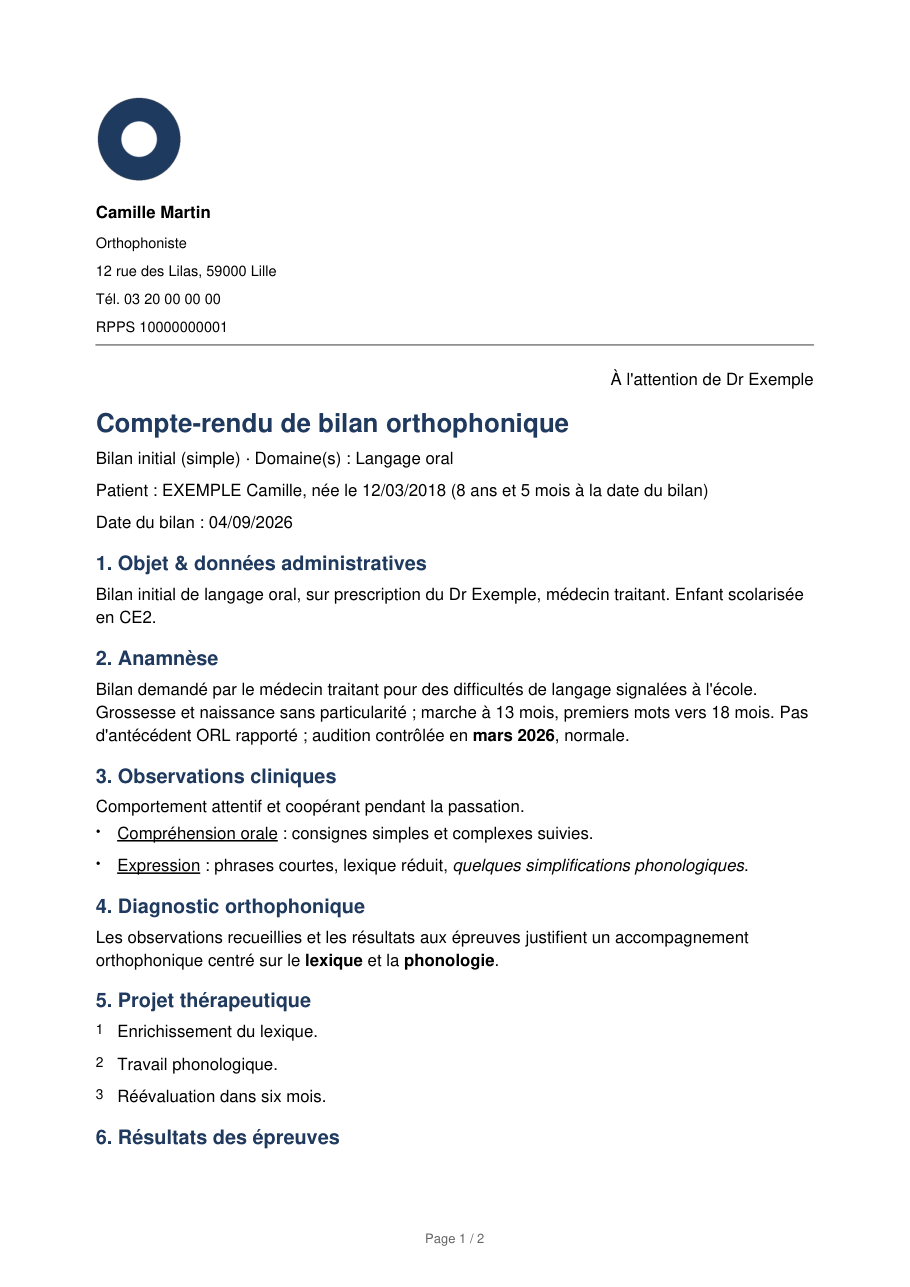
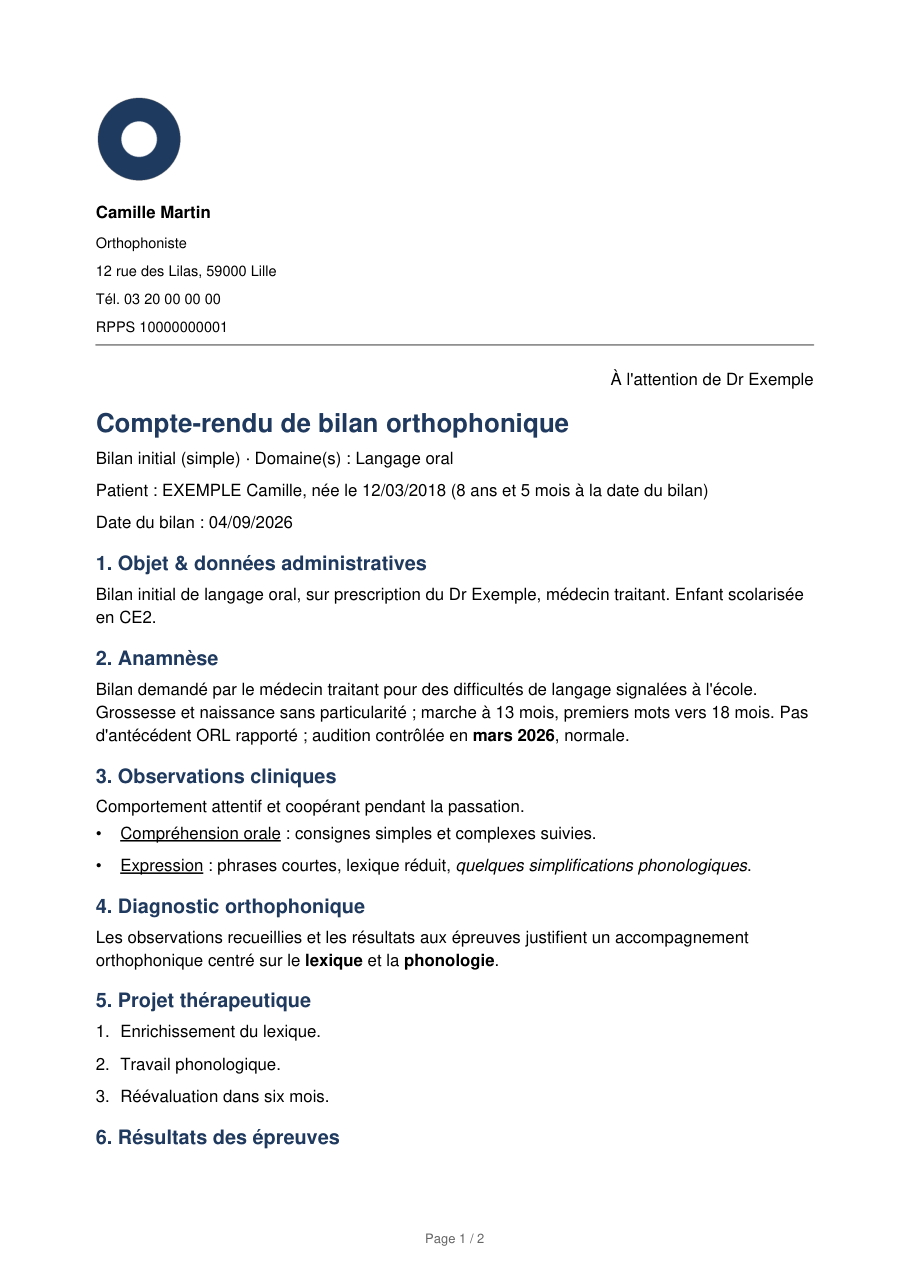
PDF : marqueurs de liste dans la police et la taille du corps, numéros suivis d'un point
Un « 1 » de 9 points flottait au-dessus de la ligne dans le compte-rendu
fictif du README ; le PDF d'exemple est régénéré.

Claude-Session: https://claude.ai/code/session_01581fueSnE6kK5c4wz2N2Ru

Changed region(s): [[0.1231, 0.6216, 0.8308, 0.6838], [0.1231, 0.777, 0.3692, 0.8702]]

diff --git a/app/export.py b/app/export.py
@@ -1085,11 +1085,16 @@ def to_pdf(b: dict, cfg: dict | None = None) -> bytes:
             if isinstance(bloc, texte_riche.Paragraphe):
                 flow.append(Paragraph(balise(bloc.segments), corps))
                 continue
-            items = [ListItem(Paragraph(balise(i), corps), leftIndent=14) for i in bloc.items]
+            # Marqueur dans la police et la taille du corps (un « 1 » de 9 pt
+            # flottait au-dessus de la ligne), avec son point pour les listes
+            # numérotées, comme dans le Word.
+            items = [ListItem(Paragraph(balise(i), corps), leftIndent=16) for i in bloc.items]
             flow.append(ListFlowable(
                 items, bulletType="1" if bloc.ordonnee else "bullet",
-                start=1 if bloc.ordonnee else "•", leftIndent=14,
-                bulletFontSize=9, spaceBefore=2, spaceAfter=2,
+                start=1 if bloc.ordonnee else "•", leftIndent=16,
+                bulletFontName=polices["normal"], bulletFontSize=taille,
+                bulletFormat="%s." if bloc.ordonnee else None,
+                spaceBefore=2, spaceAfter=2,
             ))
         return flow
 

diff --git a/CHANGELOG.md b/CHANGELOG.md
@@ -7,6 +7,9 @@ installeur Windows publié dans les releases.
 
 ## Non publié
 
+- PDF : les marqueurs de liste (puces, numéros) prennent la police et la
+  taille du texte, et les numéros leur point (« 1. ») — un « 1 » de 9 points
+  flottait au-dessus de la ligne.
 - **Adoption** : guide d'installation pérenne (`docs/installation.md`),
   distinct du protocole d'essai (`docs/guide-test.md`, données fictives,
   trois questions en retour) ; page « Vérifiez vous-même que rien ne sort »
